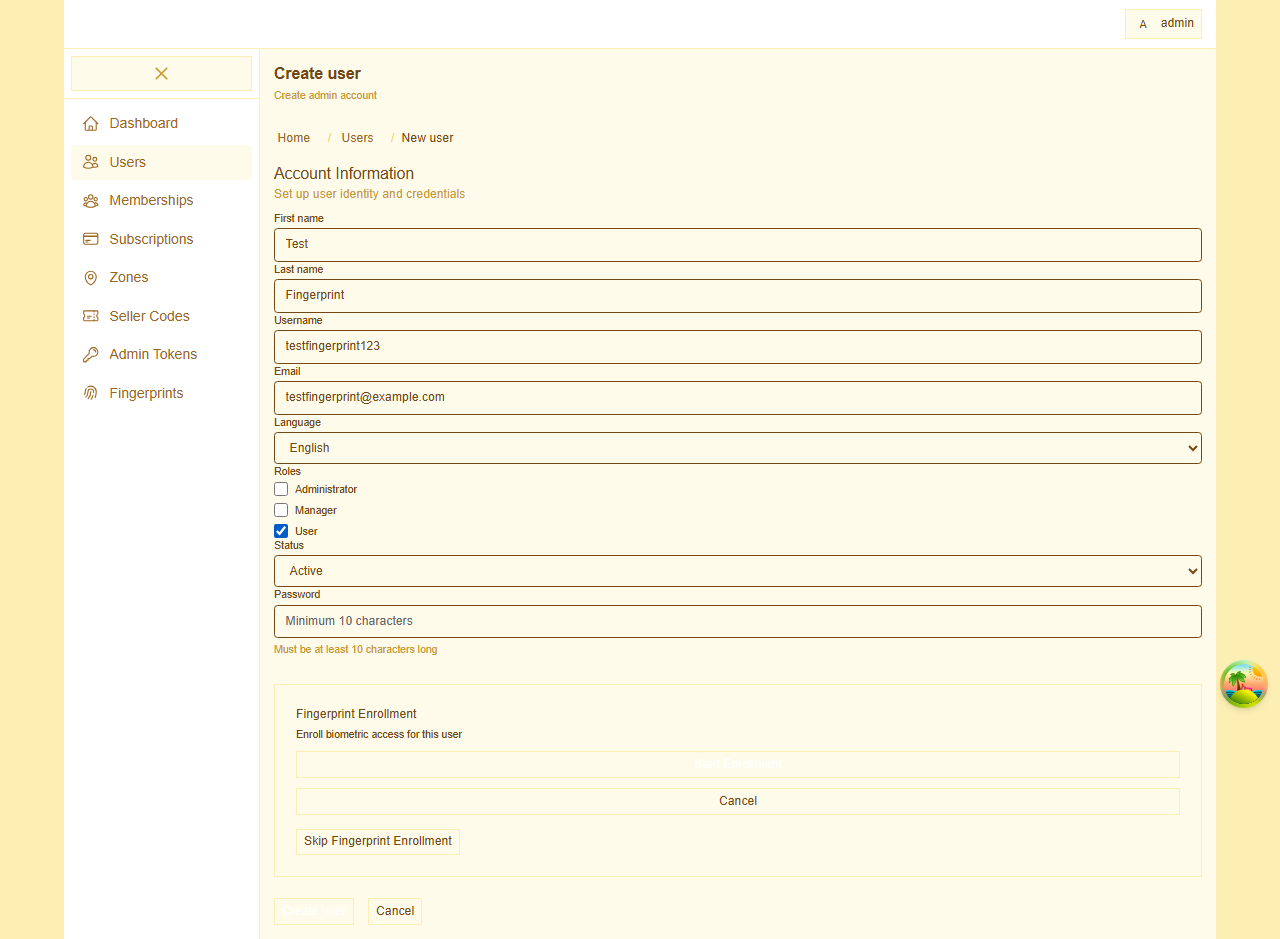
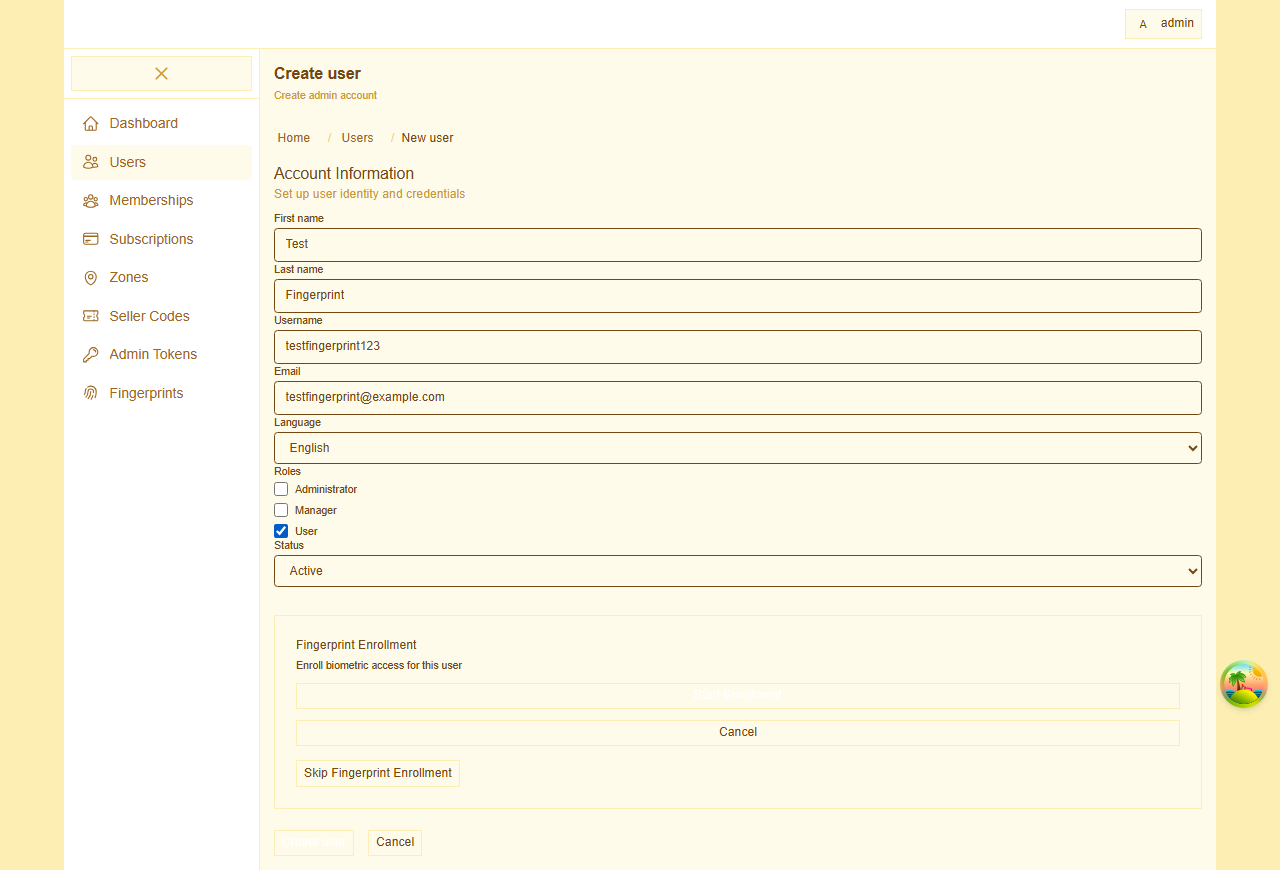
fix: resolve frontend CI failures and backend lint warnings

diff --git a/poetry-frontend/src/tests/features/auth/tokenRefresh.longterm.test.ts b/poetry-frontend/src/tests/features/auth/tokenRefresh.longterm.test.ts
@@ -1,13 +1,13 @@
 /*
  * File: tokenRefresh.longterm.test.ts
- * Purpose: Integration test simulating token refresh over extended
- * periods to verify users stay logged in with frequent visits.
- * Tests token lifecycle spanning minutes to days with activity.
+ * Purpose: Integration test simulating token refresh over extended periods.
  * All Rights Reserved. Arodi Emmanuel
  */
 import { describe, it, expect, beforeEach, vi, afterEach } from 'vitest'
-import { tokenStorage } from '../../../shared/security/tokenStorage'
-import { refreshTokenIfNeeded } from '../../../shared/security/tokenRefreshService'
+import { tokenStorage } from '../../../shared/security/tokens/tokenStorage'
+import {
+  refreshTokenIfNeeded,
+} from '../../../shared/security/tokens/tokenRefreshService'
 import * as authApi from '../../../features/auth/api/authApi'
 
 vi.mock('../../../features/auth/api/authApi')
@@ -27,59 +27,48 @@ describe('Token refresh over extended periods', () => {
     tokenStorage.clear()
     vi.clearAllMocks()
   })
-
-  afterEach(() => {
-    vi.restoreAllMocks()
-  })
+  afterEach(() => vi.restoreAllMocks())
 
   it('refreshes token before 15min expiry with 60s buffer', async () => {
     const expiringSoonToken = createJwtWithExpiry(50)
     const freshToken = createJwtWithExpiry(900)
-
     tokenStorage.save({
       accessToken: expiringSoonToken,
       refreshToken: 'refresh-token-123',
     })
-
     vi.mocked(authApi.postRefresh).mockResolvedValue({
       accessToken: freshToken,
       refreshToken: 'new-refresh-token',
     })
 
     const result = await refreshTokenIfNeeded()
-
     expect(authApi.postRefresh).toHaveBeenCalledWith('refresh-token-123')
     expect(result?.accessToken).toBe(freshToken)
   })
 
   it('does not refresh if token valid for >60s', async () => {
     const validToken = createJwtWithExpiry(900)
-
     tokenStorage.save({
       accessToken: validToken,
       refreshToken: 'refresh-token-456',
     })
 
     const result = await refreshTokenIfNeeded()
-
     expect(authApi.postRefresh).not.toHaveBeenCalled()
     expect(result?.accessToken).toBe(validToken)
   })
 
   it('clears tokens if refresh fails', async () => {
     const expiredToken = createJwtWithExpiry(-10)
-
     tokenStorage.save({
       accessToken: expiredToken,
       refreshToken: 'invalid-refresh',
     })
-
     vi.mocked(authApi.postRefresh).mockRejectedValue(
       new Error('Refresh failed')
     )
 
     const result = await refreshTokenIfNeeded()
-
     expect(result).toBeNull()
     expect(tokenStorage.load()).toBeNull()
   })

diff --git a/poetry-frontend/tests/e2e/users/users-delete.spec.ts b/poetry-frontend/tests/e2e/users/users-delete.spec.ts
@@ -17,8 +17,10 @@ async function createTestUser(
   await page.getByTestId('user-lastname-input').fill('Test')
   await page.getByTestId('user-username-input').fill(username)
   await page.getByTestId('user-email-input').fill(`${username}@example.com`)
-  await page.getByTestId('user-password-input').fill('SecurePass123!')
   await page.getByTestId('role-checkbox-admin').check()
+  // Wait for React state update to make password field visible  
+  await page.getByTestId('user-password-input').waitFor({ state: 'visible', timeout: 5000 })
+  await page.getByTestId('user-password-input').fill('SecurePass123!')
   const createApiPromise: Promise<Response> = page.waitForResponse(
     (response: Response): boolean =>
       response.url().includes('/api/v1/users') &&

diff --git a/poetry-frontend/tests/e2e/users/users-new-form.spec.ts b/poetry-frontend/tests/e2e/users/users-new-form.spec.ts
@@ -27,10 +27,12 @@ test('loads create user form with roles checkboxes', async ({
   expect(rolesResponse.status()).toBe(200)
   await expect(page.getByTestId('user-username-input')).toBeVisible()
   await expect(page.getByTestId('user-email-input')).toBeVisible()
-  await expect(page.getByTestId('user-password-input')).toBeVisible()
   await expect(page.getByTestId('role-checkbox-admin')).toBeVisible({
     timeout: 15000,
   })
+  // Check admin role to make password field appear (password is conditional)
+  await page.getByTestId('role-checkbox-admin').check()
+  await expect(page.getByTestId('user-password-input')).toBeVisible()
   await expect(page.getByTestId('role-checkbox-manager')).toBeVisible({
     timeout: 15000,
   })

diff --git a/poetry-frontend/src/tests/i18n/provider/provider.allKeys.test.tsx b/poetry-frontend/src/tests/i18n/provider/provider.allKeys.test.tsx
@@ -6,10 +6,10 @@
 import { describe, it, expect, beforeEach, vi } from 'vitest'
 import React from 'react'
 import { render, waitFor, screen } from '@testing-library/react'
-import { I18nProvider } from '../../shared/i18n'
-import { useT } from '../../shared/i18n/useT'
-import { I18N_KEYS } from '../../shared/i18n/generated/keys'
-import { localeService } from '../../shared/i18n/services/localeService'
+import { I18nProvider } from '../../../shared/i18n'
+import { useT } from '../../../shared/i18n/useT'
+import { I18N_KEYS } from '../../../shared/i18n/generated/keys'
+import { localeService } from '../../../shared/i18n/services/localeService'
 
 function AllKeysProbe() {
   const t = useT()

diff --git a/poetry-frontend/src/tests/features/routing/guards.routing.test.tsx b/poetry-frontend/src/tests/features/routing/guards.routing.test.tsx
@@ -6,9 +6,11 @@
 import { describe, it, expect, vi, afterEach, beforeEach } from 'vitest'
 import { render, waitFor } from '@testing-library/react'
 import { MemoryRouter, Routes, Route } from 'react-router-dom'
-import { RequireAuth } from '../../../shared/routing/RequireAuth'
-import * as session from '../../../shared/security/useSession'
-import type { SessionHookResult } from '../../../shared/security/useSession'
+import { RequireAuth } from '../../../shared/routing/guards/RequireAuth'
+import * as session from '../../../shared/security/session/useSession'
+import type {
+  SessionHookResult,
+} from '../../../shared/security/session/useSession'
 
 const navigateMock = vi.fn()
 

diff --git a/poetry-frontend/src/tests/features/auth/RequireRole.denies.test.tsx b/poetry-frontend/src/tests/features/auth/RequireRole.denies.test.tsx
@@ -9,9 +9,11 @@
 import { describe, it, expect, vi, afterEach, beforeEach } from 'vitest'
 import { render, waitFor } from '@testing-library/react'
 import { MemoryRouter } from 'react-router-dom'
-import { RequireRole } from '../../../shared/routing/RequireRole'
-import * as session from '../../../shared/security/useSession'
-import type { SessionHookResult } from '../../../shared/security/useSession'
+import { RequireRole } from '../../../shared/routing/guards/RequireRole'
+import * as session from '../../../shared/security/session/useSession'
+import type {
+  SessionHookResult,
+} from '../../../shared/security/session/useSession'
 
 const navigateMock = vi.fn()
 

diff --git a/poetry-frontend/tests/e2e/shared/providers/tokenProvider.ts b/poetry-frontend/tests/e2e/shared/providers/tokenProvider.ts
@@ -4,7 +4,7 @@
  * All Rights Reserved. Arodi Emmanuel
  */
 import { login, refresh } from './tokenService'
-import { TOKEN_STORAGE_KEY } from '../../../../src/shared/security/tokenStorage'
+import { TOKEN_STORAGE_KEY } from '../../../../src/shared/security/tokens/tokenStorage'
 
 export interface CachedTokens {
   accessToken: string
@@ -55,7 +55,7 @@ export async function injectTokens(
   )
   // Signal app it's running in e2e test mode so loadFontOffline can operate in test-mode
   await page.addInitScript(() => {
-    ;(globalThis as unknown as { __E2E__?: boolean }).__E2E__ = true
+    ; (globalThis as unknown as { __E2E__?: boolean }).__E2E__ = true
   })
 }
 

diff --git a/poetry-frontend/src/tests/features/auth/RequireRole.allows.test.tsx b/poetry-frontend/src/tests/features/auth/RequireRole.allows.test.tsx
@@ -10,9 +10,11 @@
 import { describe, it, expect, vi, afterEach } from 'vitest'
 import { render } from '@testing-library/react'
 import { MemoryRouter } from 'react-router-dom'
-import { RequireRole } from '../../../shared/routing/RequireRole'
-import * as session from '../../../shared/security/useSession'
-import type { SessionHookResult } from '../../../shared/security/useSession'
+import { RequireRole } from '../../../shared/routing/guards/RequireRole'
+import * as session from '../../../shared/security/session/useSession'
+import type {
+  SessionHookResult,
+} from '../../../shared/security/session/useSession'
 
 afterEach(() => {
   vi.restoreAllMocks()

diff --git a/poetry-frontend/tests/e2e/users/users-new-interactions.spec.ts b/poetry-frontend/tests/e2e/users/users-new-interactions.spec.ts
@@ -51,8 +51,10 @@ test('submits form with selected roles', async ({
   await lastNameInput.fill('User')
   await usernameInput.fill(`testuser${String(timestamp)}`)
   await emailInput.fill(`test${String(timestamp)}@example.com`)
-  await passwordInput.fill('SecurePass123!')
   await adminCheckbox.check()
+  // Wait for React state update to make password field visible
+  await passwordInput.waitFor({ state: 'visible', timeout: 5000 })
+  await passwordInput.fill('SecurePass123!')
   const createApiPromise: Promise<Response> = page.waitForResponse(
     (response: Response): boolean =>
       response.url().includes('/api/v1/users') &&

diff --git a/poetry-frontend/src/tests/i18n/provider/provider.fetchLocale.test.tsx b/poetry-frontend/src/tests/i18n/provider/provider.fetchLocale.test.tsx
@@ -6,9 +6,9 @@
 import { describe, it, expect, beforeEach, vi } from 'vitest'
 import React from 'react'
 import { render, waitFor } from '@testing-library/react'
-import { I18nProvider } from '../../shared/i18n'
-import { useT } from '../../shared/i18n/useT'
-import { localeService } from '../../shared/i18n/services/localeService'
+import { I18nProvider } from '../../../shared/i18n'
+import { useT } from '../../../shared/i18n/useT'
+import { localeService } from '../../../shared/i18n/services/localeService'
 
 function Probe(p: { seen: string[] }) {
   const t = useT()

diff --git a/poetry-frontend/src/tests/i18n/provider/provider.manualSwitch.test.tsx b/poetry-frontend/src/tests/i18n/provider/provider.manualSwitch.test.tsx
@@ -6,9 +6,9 @@
 import { describe, it, expect, beforeEach, vi } from 'vitest'
 import React from 'react'
 import { render, waitFor, screen } from '@testing-library/react'
-import { I18nProvider } from '../../shared/i18n'
-import { useT } from '../../shared/i18n/useT'
-import { localeService } from '../../shared/i18n/services/localeService'
+import { I18nProvider } from '../../../shared/i18n'
+import { useT } from '../../../shared/i18n/useT'
+import { localeService } from '../../../shared/i18n/services/localeService'
 
 function Manual() {
   const t = useT()

diff --git a/poetry-frontend/src/tests/i18n/provider/provider.fallback.test.tsx b/poetry-frontend/src/tests/i18n/provider/provider.fallback.test.tsx
@@ -6,9 +6,9 @@
 import { describe, it, expect, beforeEach, vi } from 'vitest'
 import React from 'react'
 import { render, waitFor, screen } from '@testing-library/react'
-import { I18nProvider } from '../../shared/i18n'
-import { useT } from '../../shared/i18n/useT'
-import { localeService } from '../../shared/i18n/services/localeService'
+import { I18nProvider } from '../../../shared/i18n'
+import { useT } from '../../../shared/i18n/useT'
+import { localeService } from '../../../shared/i18n/services/localeService'
 
 function Probe() {
   const t = useT()
